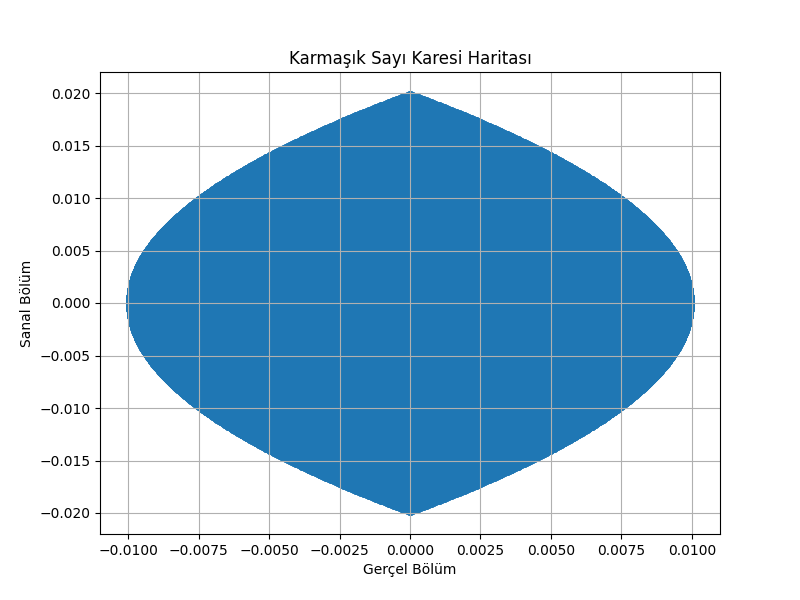
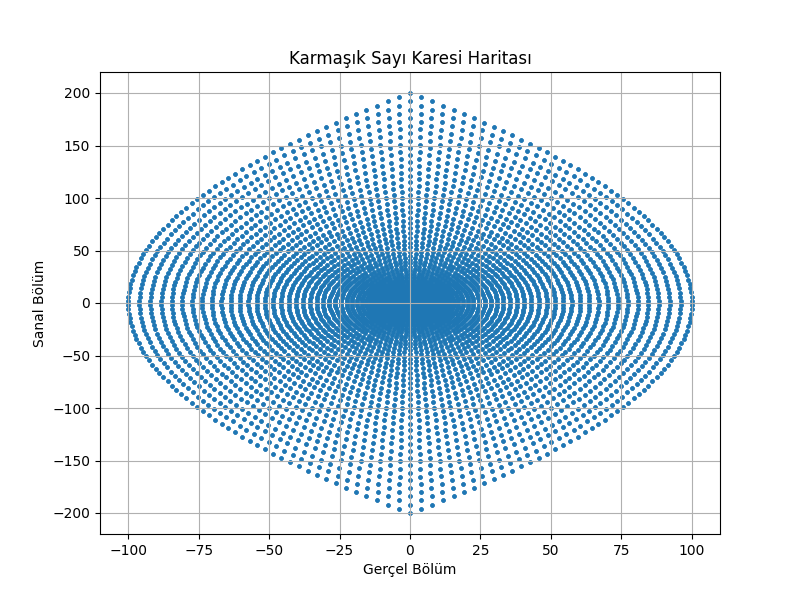
api bug fix

diff --git a/chaos_app/views.py b/chaos_app/views.py
@@ -21,6 +21,7 @@ from .models import plot_L96_trajectory,plot_bernoulli_map,arnoldcat_map
 
 #numpy , django , matplotlib ,  scipy
 @csrf_exempt
+#*
 def generate_and_save_tent_map(request):
     if request.method == 'POST':
         # İstek gövdesini JSON olarak ayrıştır
@@ -63,7 +64,7 @@ def tent_map(x, r):
         return r * x
     else:
         return r * (1 - x)
-
+#*
 @csrf_exempt
 def generate_and_save_ikeda_attractor(request):
     if request.method == 'POST':
@@ -119,7 +120,7 @@ def plot_ikeda_attractor(x0=0.1, y0=0.1, u=0.9, iterations=10000):
 
 
 
-
+#*
 @csrf_exempt
 def generate_and_save_tinkerbell_map(request):
     if request.method == 'POST':
@@ -169,7 +170,7 @@ def generate_and_save_tinkerbell_map(request):
         return JsonResponse({'plot_url': file_path})
     else:
         return JsonResponse({'error': 'Only POST requests are supported for this endpoint.'}, status=400)
-
+#*
 @csrf_exempt
 def generate_and_save_logistic_map(request):
     if request.method == 'POST':
@@ -177,9 +178,9 @@ def generate_and_save_logistic_map(request):
         body_unicode = request.body.decode('utf-8')
         body = json.loads(body_unicode)
 
-        r = float(body['formData'].get('r'))
-        x0 = float(body['formData'].get('x0'))
-        iterations = int(body['formData'].get('iterations'))
+        r = float(body['formData'].get('r',3.9))
+        x0 = float(body['formData'].get('x0',0.5))
+        iterations = int(body['formData'].get('iterations',100))
 
         values = np.zeros(iterations + 1)
         values[0] = x0
@@ -212,7 +213,7 @@ def generate_and_save_logistic_map(request):
 def logistic_map(r, x):
     return r * x * (1 - x)
 
-
+#*
 @csrf_exempt
 def generate_and_save_complex_squaring_map(request):
     if request.method == 'POST':
@@ -221,9 +222,9 @@ def generate_and_save_complex_squaring_map(request):
         body = json.loads(body_unicode)
 
         # Harita oluşturma parametrelerini al
-        real_range = float(body['formData'].get('real_range'))
-        imag_range = float(body['formData'].get('imag_range'))
-        num_points = int(body['formData'].get('num_points'))
+        real_range = float(body['formData'].get('real_range',10))
+        imag_range = float(body['formData'].get('imag_range',10))
+        num_points = int(body['formData'].get('num_points',100))
 
         # Karmaşık sayıları oluştur
         real_values = np.linspace(-real_range, real_range, num_points)
@@ -295,7 +296,7 @@ def arnoldcat_map_api(request):
 
     else:
         return JsonResponse({'error': 'Only POST requests are supported for this endpoint.'}, status=400)
-
+#*
 @csrf_exempt
 def generate_and_save_bernoulli_map(request):
     if request.method == 'POST':
@@ -322,7 +323,7 @@ def generate_and_save_bernoulli_map(request):
         return JsonResponse({'plot_url': plot_url})
     else:
         return JsonResponse({'error': 'Only POST requests are supported for this endpoint.'}, status=400)
-
+#*
 @csrf_exempt
 def generate_and_save_L96_trajectory(request):
     if request.method == 'POST':
@@ -351,6 +352,7 @@ def generate_and_save_L96_trajectory(request):
         return JsonResponse({'plot_url': plot_url})
     else:
         return JsonResponse({'error': 'Only POST requests are supported for this endpoint.'}, status=400)
+
 @csrf_exempt
 def lorenz_map(request):
     # Lorenz çekicisini çiz
@@ -592,7 +594,7 @@ def zaslavskii_rotation_map(x, y, a, k):
     x_new = x + y + k * np.sin(2 * np.pi * y)
     y_new = y - a * np.sin(2 * np.pi * x)
     return x_new, y_new
-
+#*
 @csrf_exempt
 def generate_and_save_zaslavskii_map(request):
     if request.method == 'POST':
@@ -633,7 +635,7 @@ def generate_and_save_zaslavskii_map(request):
         plt.close()
 
         # Kaydedilen dosyanın URL'sini döndür
-        plot_url = request.build_absolute_uri(file_path)
+        plot_url = os.path.join('chaos_app', 'maps', 'zaslavskii_map.png')
         return JsonResponse({'plot_url': plot_url})
     else:
         return JsonResponse({'error': 'Only POST requests are supported for this endpoint.'}, status=400)
@@ -703,7 +705,7 @@ def init_agents(population, length):
 a_vals = []
 b_vals = []
 f_vals = []
-
+#*
 @csrf_exempt
 def generate_and_save_genetic_algorithm_map(request):
     if request.method == 'POST':
@@ -858,7 +860,7 @@ def generate_and_save_genetic_algorithm_map(request):
         plt.close()
 
         # Return URL of saved file
-        plot_url = request.build_absolute_uri(file_path)
+        plot_url = os.path.join('chaos_app', 'maps', 'genetic_algorithm_map.png')
         return JsonResponse({'plot_url': plot_url})
     else:
         return JsonResponse({'error': 'Only POST requests are supported for this endpoint.'}, status=400)
@@ -874,7 +876,7 @@ from django.http import JsonResponse
 from django.views.decorators.csrf import csrf_exempt
 import json
 import os
-
+#*
 @csrf_exempt
 def generate_and_save_bifurcation(request):
     if request.method == 'POST':
@@ -924,7 +926,7 @@ from django.views.decorators.csrf import csrf_exempt
 import json
 import os
 from scipy.integrate import odeint
-
+#*
 @csrf_exempt
 def generate_and_save_lorenz(request):
     if request.method == 'POST':
@@ -970,7 +972,7 @@ import numpy as np
 import matplotlib.pyplot as plt
 import os
 import json
-
+#*
 @csrf_exempt
 def generate_poincare_map(request):
     if request.method == 'POST':

diff --git a/chaos_app/urls.py b/chaos_app/urls.py
@@ -25,8 +25,8 @@ urlpatterns = [
     path('api/generate_and_save_ikeda_attractor/', views.generate_and_save_ikeda_attractor , name="generate_and_save_ikeda_attractor"),
     path('api/generate_and_save_gingerbread_man/', views.generate_and_save_gingerbread_man,
          name="generate_and_save_gingerbread_man"), 
-    path('api/generate_bifurcation_diagram/', views.generate_bifurcation_diagram, name="generate_bifurcation_diagram"),
-    path('api/generate_lorenz_attractor/', views.generate_lorenz_attractor, name="generate_lorenz_attractor"),
+    path('api/generate_bifurcation_diagram/', views.generate_and_save_bifurcation, name="generate_bifurcation_diagram"),
+    path('api/generate_lorenz_attractor/', views.generate_and_save_lorenz, name="generate_lorenz_attractor"),
     path('api/generate_poincare_map/', views.generate_poincare_map, name="generate_poincare_map"),
 
 ]
